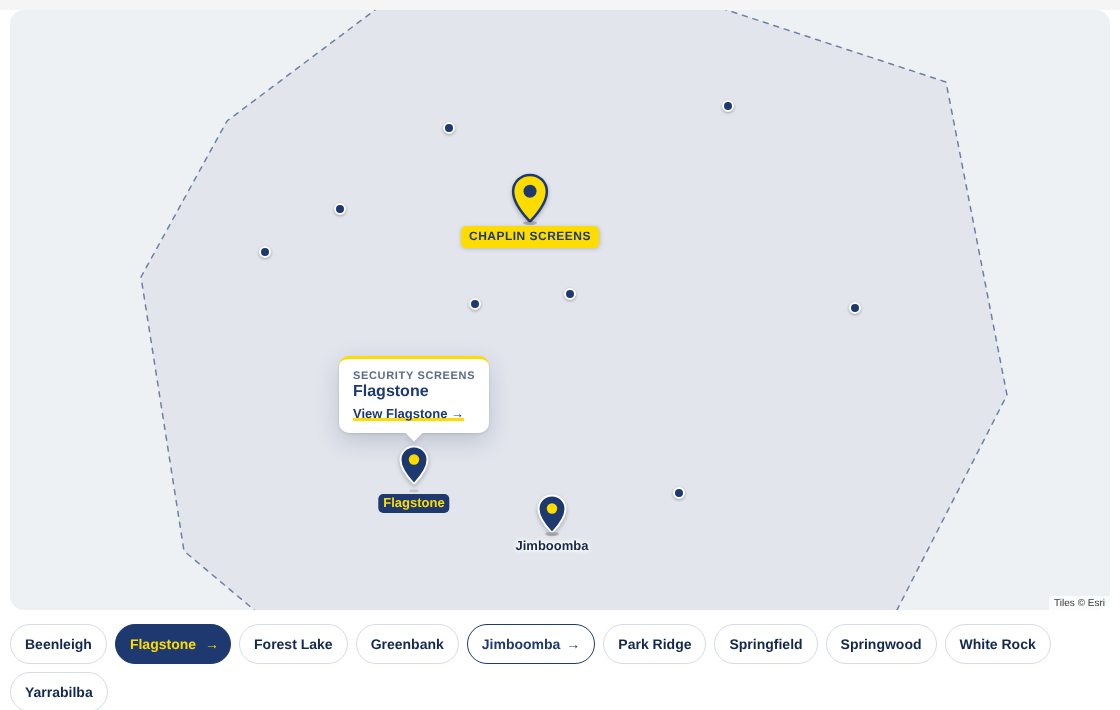
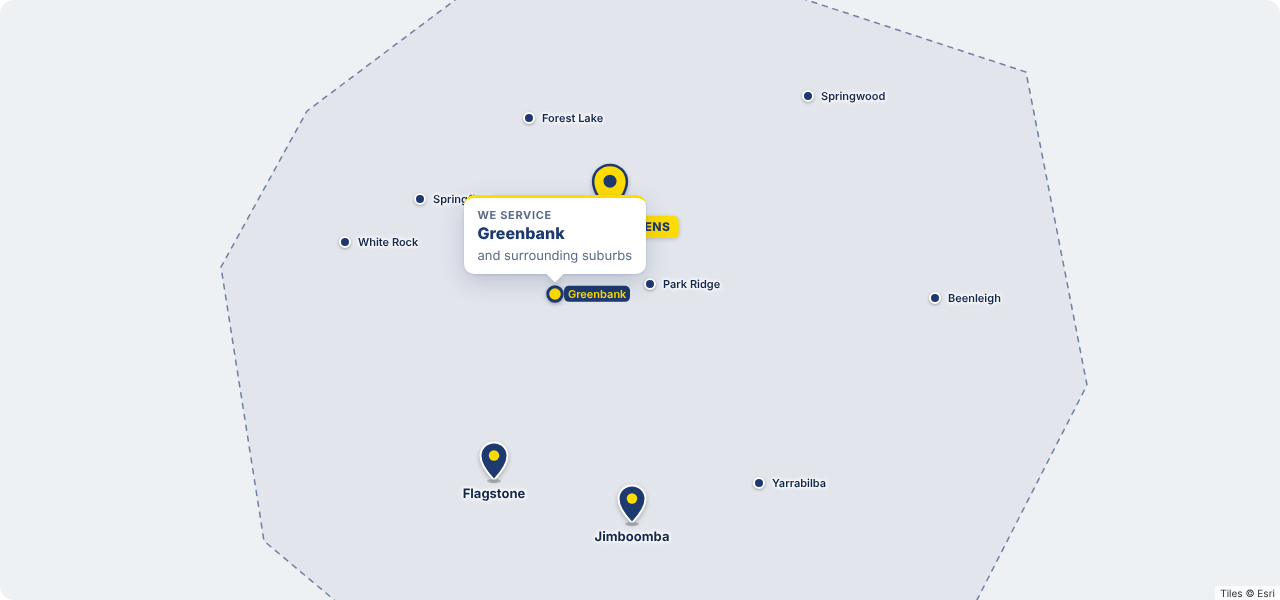
Label the suburb dots and drop the buttons under the map
Suburbs without a page now carry a smaller label beside their dot, so
every suburb is named on the map itself. The suburb buttons and the
'Also servicing' line under the map are removed.

Claude-Session: https://claude.ai/code/session_0174eAv1zeVFdJMDRdpbnAXd

diff --git a/client-maps/chaplin-screens/service-area-map.html b/client-maps/chaplin-screens/service-area-map.html
@@ -113,6 +113,13 @@
   .csm-label.at-l { right: calc(100% + 2px); top: 38%; transform: translateY(-50%); }
   .csm-label.is-hidden { opacity: 0; }
 
+  /* Dot labels: smaller, sitting beside the dot. */
+  .csm-dotwrap .csm-label { font-size: 11px; font-weight: 600; padding: 1px 4px; }
+  .csm-dotwrap .csm-label.at-r { left: calc(100% - 5px); top: 50%; }
+  .csm-dotwrap .csm-label.at-l { right: calc(100% - 5px); top: 50%; }
+  .csm-dotwrap .csm-label.at-b { top: calc(100% - 6px); }
+  .csm-dotwrap .csm-label.at-t { bottom: calc(100% - 6px); }
+
   .csm-hq .csm-pin { width: 38px; height: 50px; }
   .csm-hq .csm-label {
     padding: 3px 8px;
@@ -209,34 +216,6 @@
   }
   .csm-card-note { display: block; margin-top: 4px; font-size: 13px; color: var(--csm-muted); }
 
-  /* ---- Suburb buttons ---- */
-  .csm-areas { margin-top: 14px; }
-  .csm-chips { display: flex; flex-wrap: wrap; gap: 8px; margin: 0; padding: 0; list-style: none; }
-  .csm-chip {
-    display: inline-flex;
-    align-items: center;
-    gap: 6px;
-    min-height: 40px;
-    padding: 8px 14px;
-    border-radius: 999px;
-    border: 1.5px solid #d5dbe7;
-    background: #ffffff;
-    color: var(--csm-ink);
-    font-size: 14px;
-    font-weight: 600;
-    line-height: 1.2;
-    text-decoration: none;
-    cursor: default;
-    transition: background-color .15s ease, border-color .15s ease, color .15s ease;
-    -webkit-tap-highlight-color: transparent;
-  }
-  a.csm-chip { border-color: var(--csm-blue); color: var(--csm-blue); cursor: pointer; }
-  a.csm-chip .csm-arrow { transition: transform .15s ease; }
-  .csm-chip.is-hot { border-color: var(--csm-blue); background: #f1f4fa; }
-  a.csm-chip.is-hot,
-  a.csm-chip:focus-visible { background: var(--csm-blue); color: var(--csm-yellow); outline: none; }
-  a.csm-chip.is-hot .csm-arrow { transform: translateX(3px); }
-  .csm-also { margin: 12px 2px 0; font-size: 14px; color: var(--csm-muted); }
 
   @media (max-width: 600px) {
     .csm-map { border-radius: 10px; }
@@ -244,7 +223,7 @@
     .csm-pin { width: 26px; height: 35px; }
     .csm-hq .csm-pin { width: 32px; height: 42px; }
     .csm-hq .csm-label { font-size: 11px; }
-    .csm-chip { font-size: 13px; padding: 7px 12px; }
+    .csm-dotwrap .csm-label { font-size: 10px; }
   }
   @media (prefers-reduced-motion: reduce) {
     .csm *, .csm *::before, .csm *::after { animation: none !important; transition: none !important; }
@@ -256,10 +235,6 @@
     <div class="csm-map" id="csm-map" role="region" aria-label="Map of the Chaplin Screens service area"></div>
     <div class="csm-card" aria-hidden="true"></div>
   </div>
-  <nav class="csm-areas" aria-label="Suburbs we service">
-    <ul class="csm-chips"></ul>
-    <p class="csm-also"></p>
-  </nav>
 </div>
 
 <script src="https://unpkg.com/leaflet@1.9.4/dist/leaflet.js"
@@ -271,8 +246,8 @@
   /* =====================================================================
      EDIT HERE
      url: the suburb's service-area page. With a url the suburb gets a full
-     pin, a label and a link. Leave null and it shows as a small dot (name
-     on hover) until the page exists. Only https links are accepted.
+     pin and a link. Leave null and it shows as a small labelled dot until
+     the page exists. Only https links are accepted.
      ===================================================================== */
   var HEAD_OFFICE = {
     name: 'Chaplin Screens',
@@ -296,9 +271,6 @@
     { name: 'Flagstone',    lat: -27.8090, lng: 152.9480, url: 'https://www.chaplinscreens.com.au/flagstone-security-screens/' }
   ];
 
-  // Listed in the line under the buttons; not drawn on the map.
-  var ALSO_SERVICING = ['Sunnybank', 'Redbank Plains', 'South Maclean', 'Ormeau', 'Woodhill', 'Tamborine'];
-
   // Service-area boundary, traced from the dotted line on the supplied map.
   var SERVICE_AREA = [
     [-27.560, 152.930], [-27.555, 153.100], [-27.600, 153.255],
@@ -316,8 +288,6 @@
   if (!root) return;
   var mapEl = root.querySelector('.csm-map');
   var cardEl = root.querySelector('.csm-card');
-  var chipList = root.querySelector('.csm-chips');
-  var alsoEl = root.querySelector('.csm-also');
   if (mapEl._leaflet_id) return;
 
   function escapeHtml(s) {
@@ -403,7 +373,8 @@
       ? '<span class="csm-pin">' + (hq ? pinSvg(YELLOW, BLUE, BLUE) : pinSvg(BLUE, '#ffffff', YELLOW)) + '</span>' +
         '<span class="csm-shadow"></span>' +
         '<span class="csm-label at-b">' + escapeHtml(item.name) + '</span>'
-      : '<span class="csm-dot"></span>';
+      : '<span class="csm-dot"></span>' +
+        '<span class="csm-label at-r">' + escapeHtml(item.name) + '</span>';
     var html = '<' + tag + ' class="csm-pinwrap' + (hq ? ' csm-hq' : '') + (full ? '' : ' csm-dotwrap') + '"' + attrs + '>' +
       inner + '</' + tag + '>';
 
@@ -420,8 +391,7 @@
       item: item, kind: kind, url: url, marker: marker, wrap: wrap,
       label: wrap.querySelector('.csm-label'),
       priority: hq ? 0 : (url ? 1 : 2),
-      baseZ: baseZ,
-      chip: null
+      baseZ: baseZ
     };
     entries.push(entry);
 
@@ -440,16 +410,18 @@
     return entry;
   }
 
+  mapEl.setAttribute('aria-label', 'Map of the Chaplin Screens service area, covering ' +
+    SUBURBS.map(function (s) { return s.name; }).join(', '));
+
   addMarker(HEAD_OFFICE, 'hq');
   SUBURBS.forEach(function (s) { addMarker(s, 'suburb'); });
 
-  /* ---- Hot state: one place drives pin, card and button together ---- */
+  /* ---- Hot state: one place drives the marker and its card ---- */
   var hotEntry = null;
   var flashTimer;
   function setHot(entry, on) {
     if (on && hotEntry && hotEntry !== entry) setHot(hotEntry, false);
     entry.wrap.classList.toggle('is-hot', on);
-    if (entry.chip) entry.chip.classList.toggle('is-hot', on);
     entry.marker.setZIndexOffset(on ? 3000 : entry.baseZ);
     if (on) { hotEntry = entry; showCard(entry); }
     else if (hotEntry === entry) { hotEntry = null; cardEl.classList.remove('is-on'); }
@@ -498,72 +470,47 @@
   }
 
   /* ---- Label placement ----
-     Each visible label tries below, right, left, then above its pin and
-     takes the first spot clear of other pins, labels and the map edge.
+     Pin labels try below, right, left, then above; dot labels try right,
+     left, below, then above. Each label takes
+     the first spot clear of other pins, labels and the map edge.
      If none is clear it hides until its pin is hovered. */
   var SPOTS = ['at-b', 'at-r', 'at-l', 'at-t'];
+  var DOT_SPOTS = ['at-r', 'at-l', 'at-b', 'at-t'];
   function overlaps(a, b, pad) {
     return !(a.right + pad <= b.left || b.right + pad <= a.left || a.bottom + pad <= b.top || b.bottom + pad <= a.top);
   }
   function placeLabels() {
     var frame = mapEl.getBoundingClientRect();
     // Marker boxes (not the animated pin) so this works mid-animation.
-    var taken = entries.map(function (e) { return e.wrap.getBoundingClientRect(); });
-    function fits(r) {
+    var taken = entries.map(function (e) { return { r: e.wrap.getBoundingClientRect(), owner: e }; });
+    function fits(r, owner) {
       return r.left >= frame.left + 2 && r.right <= frame.right - 2 &&
              r.top >= frame.top + 2 && r.bottom <= frame.bottom - 16 &&
-             !taken.some(function (t) { return overlaps(r, t, 2); });
+             !taken.some(function (t) { return t.owner !== owner && overlaps(r, t.r, 2); });
     }
     entries
       .filter(function (e) { return e.label; })
       .sort(function (a, b) { return a.priority - b.priority; })
       .forEach(function (e) {
+        var spots = e.wrap.classList.contains('csm-dotwrap') ? DOT_SPOTS : SPOTS;
         var placed = null;
-        for (var i = 0; i < SPOTS.length && !placed; i++) {
+        for (var i = 0; i < spots.length && !placed; i++) {
           SPOTS.forEach(function (c) { e.label.classList.remove(c); });
-          e.label.classList.add(SPOTS[i]);
+          e.label.classList.add(spots[i]);
           var r = e.label.getBoundingClientRect();
-          if (fits(r)) placed = r;
+          if (fits(r, e)) placed = r;
         }
         if (!placed) {
           SPOTS.forEach(function (c) { e.label.classList.remove(c); });
-          e.label.classList.add('at-b');
+          e.label.classList.add(spots[0]);
         }
         var keep = placed || e.priority === 0;
         e.label.classList.toggle('is-hidden', !keep);
-        if (keep) taken.push(placed || e.label.getBoundingClientRect());
+        if (keep) taken.push({ r: placed || e.label.getBoundingClientRect(), owner: null });
       });
   }
   placeLabels();
 
-  /* ---- Suburb buttons under the map, linked to the pins ---- */
-  entries
-    .filter(function (e) { return e.kind === 'suburb'; })
-    .sort(function (a, b) { return a.item.name.localeCompare(b.item.name); })
-    .forEach(function (e) {
-      var li = document.createElement('li');
-      var chip = document.createElement(e.url ? 'a' : 'span');
-      chip.className = 'csm-chip';
-      if (e.url) {
-        chip.href = e.url;
-        chip.target = '_top';
-        chip.innerHTML = escapeHtml(e.item.name) + '<span class="csm-arrow" aria-hidden="true">&rarr;</span>';
-      } else {
-        chip.textContent = e.item.name;
-      }
-      chip.addEventListener('mouseenter', function () { if (!lastPointerWasTouch) setHot(e, true); });
-      chip.addEventListener('mouseleave', function () { setHot(e, false); });
-      chip.addEventListener('focus', function () { setHot(e, true); });
-      chip.addEventListener('blur', function () { setHot(e, false); });
-      if (!e.url) chip.addEventListener('click', function () { flash(e); });
-      e.chip = chip;
-      li.appendChild(chip);
-      chipList.appendChild(li);
-    });
-  alsoEl.textContent = ALSO_SERVICING.length
-    ? 'Also servicing ' + ALSO_SERVICING.slice(0, -1).join(', ') +
-      (ALSO_SERVICING.length > 1 ? ' and ' : '') + ALSO_SERVICING[ALSO_SERVICING.length - 1] + '.'
-    : '';
 
   /* ---- Arrival animation: once, when the map scrolls into view ---- */
   if (!reduceMotion && 'IntersectionObserver' in window) {

diff --git a/client-maps/chaplin-screens/README.md b/client-maps/chaplin-screens/README.md
@@ -11,16 +11,15 @@ Interactive Leaflet map for chaplinscreens.com.au. One file: `service-area-map.h
 
 All settings are in the `EDIT HERE` block at the top of the script:
 
-- `SUBURBS[].url`: the suburb's service-area page, e.g. `https://www.chaplinscreens.com.au/<suburb>-security-screens/`. With a URL the suburb gets a full pin, a label and a linked button. Left `null` it shows as a small dot (name in the hover card) and a plain button.
+- `SUBURBS[].url`: the suburb's service-area page, e.g. `https://www.chaplinscreens.com.au/<suburb>-security-screens/`. With a URL the suburb gets a full pin and a link. Left `null` it shows as a small blue dot with a smaller label beside it.
 - `HEAD_OFFICE.lat/lng`: placed from the supplied image. Replace with the real address coordinates. `HEAD_OFFICE.note` is the line in its hover card.
-- `ALSO_SERVICING`: names in the "Also servicing" line under the buttons.
 - `SERVICE_AREA`: the dashed boundary.
 
 ## How it behaves
 
 - **Fixed map.** No zoom or pan, so scrolling, swiping and pinching always act on the page. There is no scroll trap on any device and nothing to learn.
-- **Hover card.** Hovering or focusing a pin, dot or suburb button shows a card above the marker; the pin hops once and stays raised. Pin and button highlight together.
-- **Touch.** Tapping a linked pin shows the hop, then opens the page. Tapping a dot or unlinked button shows its card for a few seconds.
+- **Hover card.** Hovering or focusing a pin or dot shows a card above it; pins hop once and stay raised.
+- **Touch.** Tapping a pin shows the hop, then opens the page. Tapping a dot shows its card for a few seconds.
 - **Arrival.** Pins drop in once when the map scrolls into view, rippling out from head office. Skipped under `prefers-reduced-motion`.
-- **Labels.** Each label takes the clear side of its pin (below, right, left, above).
+- **Labels.** Pin labels prefer below the pin; dot labels prefer the right of the dot. Each takes the first clear side.
 - Tiles: Esri's keyless light-grey base, without labels. Leaflet 1.9.4 from unpkg with SRI hashes.
